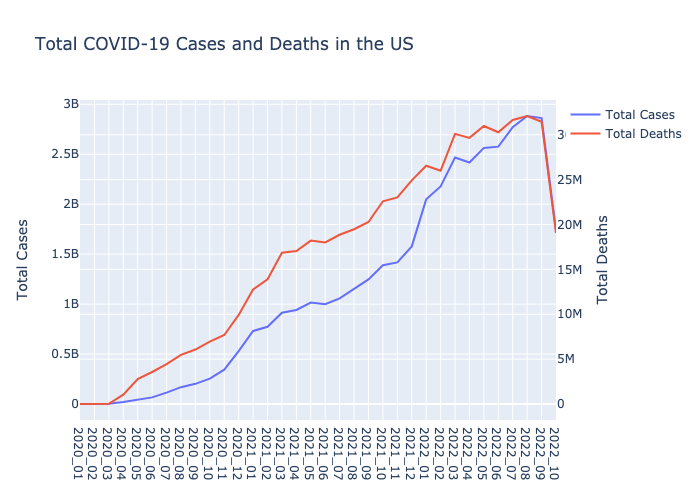
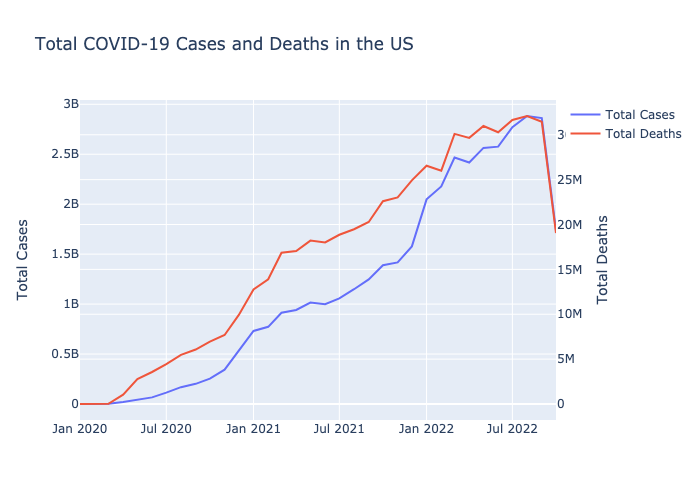
Format year and month to make it more readable

diff --git a/covid_cases_deaths_graph.py b/covid_cases_deaths_graph.py
@@ -6,15 +6,15 @@ df = pd.read_csv('covid_data.csv', usecols=['submission_date', 'tot_cases', 'tot
 
 # Convert the submission_date column to a datetime object and extract the year and month
 df['submission_date'] = pd.to_datetime(df['submission_date'])
-df['year_month'] = df['submission_date'].dt.strftime('%Y_%m')
+df['year-month'] = df['submission_date'].dt.strftime('%Y-%m')
 
-# Group the data by year_month and sum the total cases and deaths
-df = df.groupby('year_month').agg({'tot_cases': 'sum', 'tot_death': 'sum'}).reset_index()
+# Group the data by year-month and sum the total cases and deaths
+df = df.groupby('year-month').agg({'tot_cases': 'sum', 'tot_death': 'sum'}).reset_index()
 
 # Create the line chart using Plotly Express
 fig = go.Figure()
-fig.add_trace(go.Scatter(x=df['year_month'], y=df['tot_cases'], name='Total Cases'))
-fig.add_trace(go.Scatter(x=df['year_month'], y=df['tot_death'], name='Total Deaths', yaxis='y2'))
+fig.add_trace(go.Scatter(x=df['year-month'], y=df['tot_cases'], name='Total Cases'))
+fig.add_trace(go.Scatter(x=df['year-month'], y=df['tot_death'], name='Total Deaths', yaxis='y2'))
 
 # Set the y-axis title
 fig.update_layout(title='Total COVID-19 Cases and Deaths in the US',

diff --git a/covid_deaths_map.py b/covid_deaths_map.py
@@ -6,16 +6,16 @@ df = pd.read_csv('covid_data.csv', usecols=['submission_date', 'state', 'tot_dea
 
 # Convert the submission_date column to a datetime object and extract the year and month
 df['submission_date'] = pd.to_datetime(df['submission_date'])
-df['year_month'] = df['submission_date'].dt.strftime('%Y_%m')
+df['year-month'] = df['submission_date'].dt.strftime('%Y-%m')
 
 # Filter the data to only include the first day of each month
 df = df.loc[df['submission_date'].dt.day == 1]
 
-# Group the data by state and year_month and sum the total deaths
-df = df.groupby(['state', 'year_month']).agg({'tot_death': 'sum'}).reset_index()
+# Group the data by state and year-month and sum the total deaths
+df = df.groupby(['state', 'year-month']).agg({'tot_death': 'sum'}).reset_index()
 
 # Create the map using Plotly Express
-fig = px.choropleth(df, locations='state', locationmode='USA-states', color='tot_death', color_continuous_scale='Reds', scope='usa', animation_frame='year_month')
+fig = px.choropleth(df, locations='state', locationmode='USA-states', color='tot_death', color_continuous_scale='Reds', scope='usa', animation_frame='year-month')
 
 # Show the map
 fig.show()

diff --git a/covid_cases_map.py b/covid_cases_map.py
@@ -6,16 +6,16 @@ df = pd.read_csv('covid_data.csv', usecols=['submission_date', 'state', 'tot_cas
 
 # Convert the submission_date column to a datetime object and extract the year and month
 df['submission_date'] = pd.to_datetime(df['submission_date'])
-df['year_month'] = df['submission_date'].dt.strftime('%Y-%m')
+df['year-month'] = df['submission_date'].dt.strftime('%Y-%m')
 
 # Filter the data to only include the first day of each month
 df = df.loc[df['submission_date'].dt.day == 1]
 
-# Group the data by state and year_month and sum the total cases
-df = df.groupby(['state', 'year_month']).agg({'tot_cases': 'sum'}).reset_index()
+# Group the data by state and year-month and sum the total cases
+df = df.groupby(['state', 'year-month']).agg({'tot_cases': 'sum'}).reset_index()
 
 # Create the map using Plotly Express
-fig = px.choropleth(df, locations='state', locationmode='USA-states', color='tot_cases', color_continuous_scale='Reds', scope='usa', animation_frame='year_month')
+fig = px.choropleth(df, locations='state', locationmode='USA-states', color='tot_cases', color_continuous_scale='Reds', scope='usa', animation_frame='year-month')
 
 # Show the map
 fig.show()
